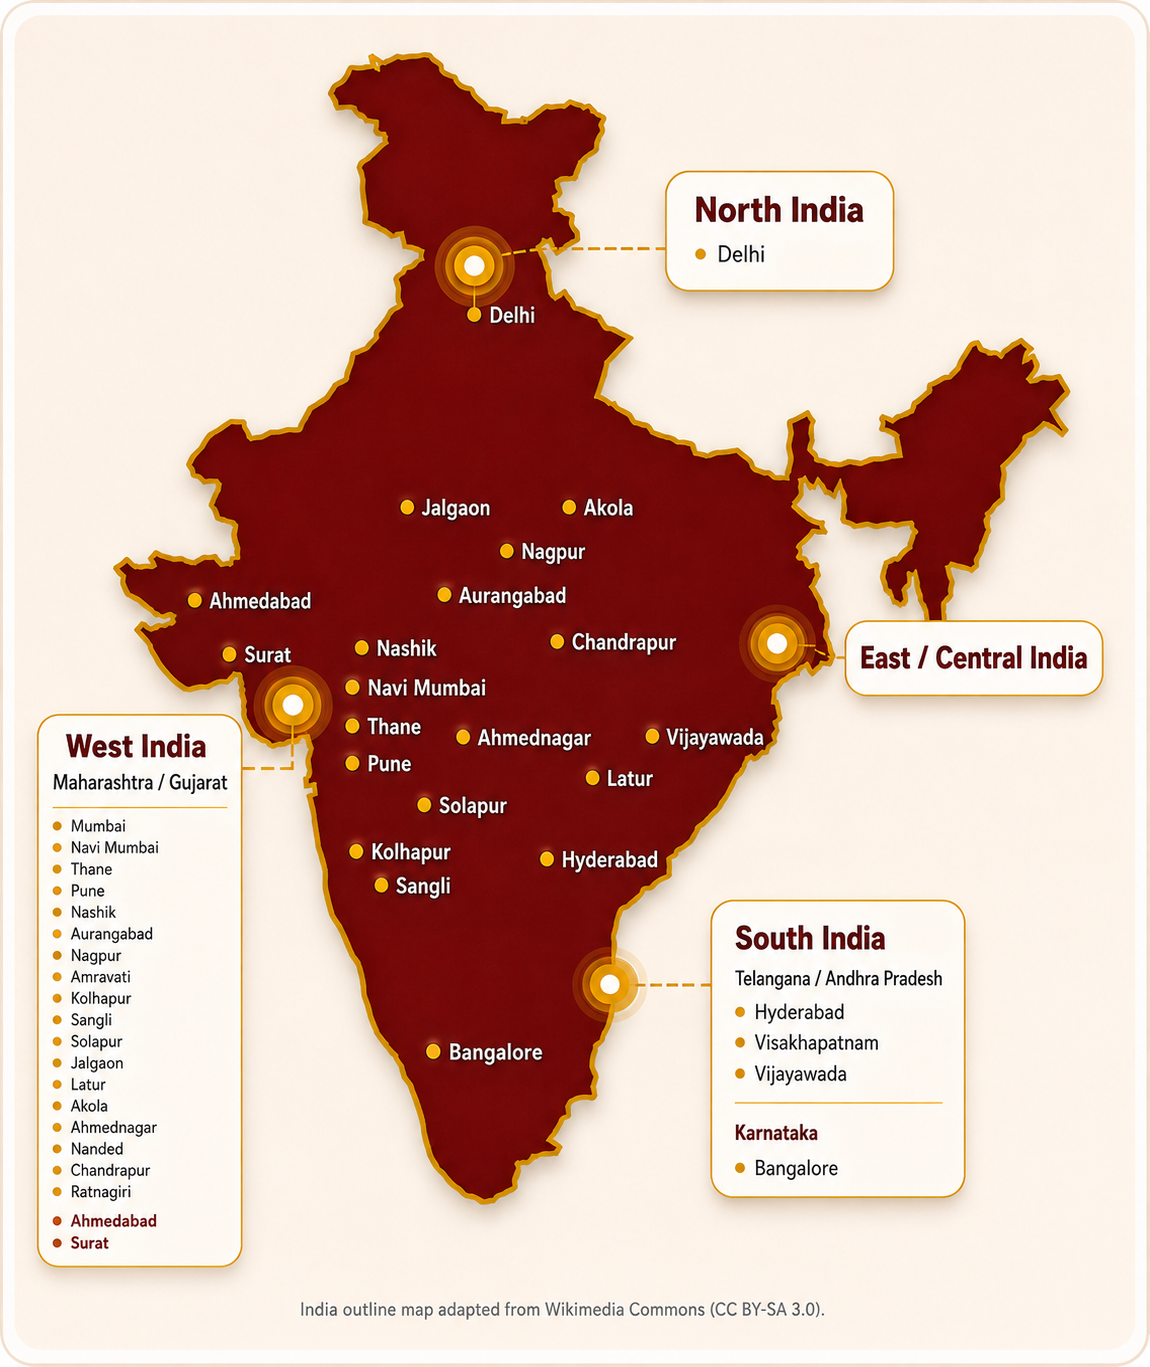
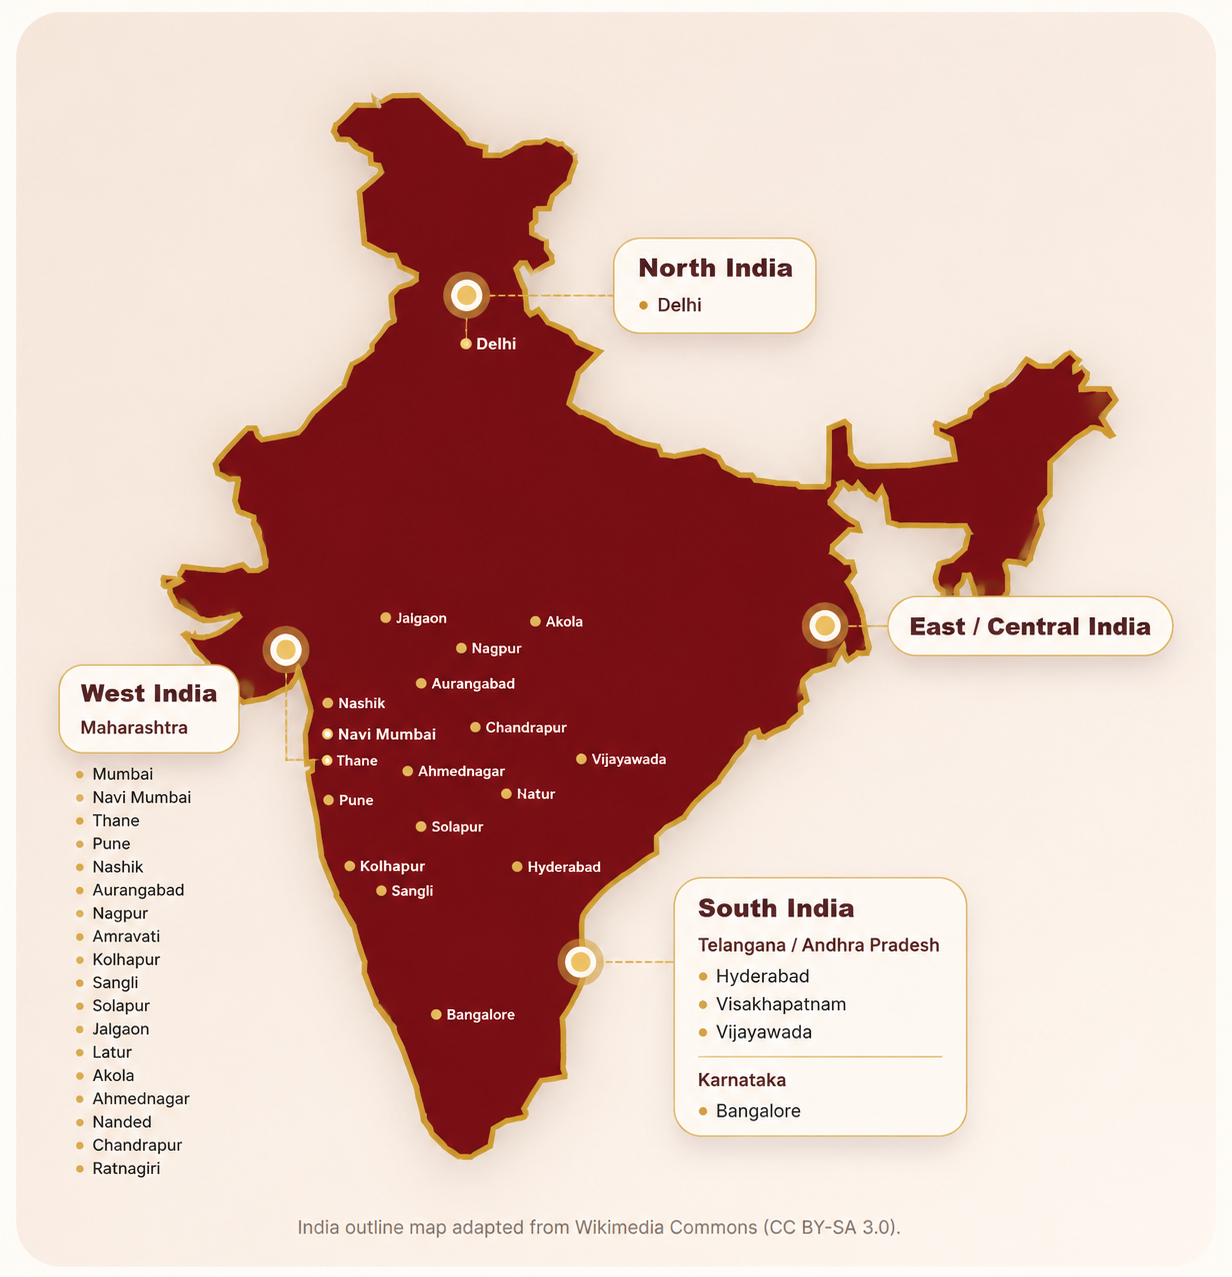
Add files via upload

diff --git a/index.html b/index.html
@@ -10,7 +10,7 @@
 <link href="https://fonts.googleapis.com" rel="preconnect"/>
 <link crossorigin="" href="https://fonts.gstatic.com" rel="preconnect"/>
 <link href="https://fonts.googleapis.com/css2?family=Cormorant+Garamond:wght@600&amp;family=Inter:wght@400;500;600;700&amp;family=Playfair+Display:wght@600;700&amp;display=swap" rel="stylesheet"/>
-<link href="style.css?v=pointer-final-aligned-4" rel="stylesheet"/>
+<link href="style.css?v=gujarat-pointer-aligned-1" rel="stylesheet"/>
 </head>
 <body>
 <header class="site-header" id="top">
@@ -271,7 +271,7 @@
 <h3>PAN-India vision.<br/><em>Phased regional execution.</em></h3>
 <div class="india-map-card real-map-card city-map-card">
 <div class="real-india-map city-india-map">
-<img alt="Brazora PAN-India expansion map showing Maharashtra cities, Delhi, Telangana, Andhra Pradesh and Bangalore" src="assets/india-expansion-cities-latur-pointer-aligned.png"/>
+<img alt="Brazora PAN-India expansion map showing Maharashtra and Gujarat cities including Ahmedabad and Surat, Delhi, Telangana, Andhra Pradesh and Bangalore" src="assets/india-expansion-gujarat-ahmedabad-surat.png?v=2"/>
 <span aria-hidden="true" class="map-pulse map-pulse-north"></span>
 <span aria-hidden="true" class="map-pulse map-pulse-west"></span>
 <span aria-hidden="true" class="map-pulse map-pulse-east"></span>

diff --git a/style.css b/style.css
@@ -2476,3 +2476,32 @@ footer{
   font-size: inherit;
   font-weight: 700;
 }
+
+/* =========================================================
+   FINAL POINTER ALIGNMENT — Gujarat/Ahmedabad/Surat map
+   Exact marker centres measured from the current map asset
+   (1150 x 1367 px).
+   ========================================================= */
+.real-india-map.city-india-map .map-pulse-north{
+  left:41.1652% !important;
+  top:19.4440% !important;
+}
+.real-india-map.city-india-map .map-pulse-west{
+  left:25.5130% !important;
+  top:51.4850% !important;
+}
+.real-india-map.city-india-map .map-pulse-east{
+  left:67.5652% !important;
+  top:47.0080% !important;
+}
+.real-india-map.city-india-map .map-pulse-south{
+  left:52.9565% !important;
+  top:72.0263% !important;
+}
+.real-india-map.city-india-map .map-pulse{
+  transform:translate(-50%,-50%) !important;
+  transform-origin:center center !important;
+}
+.real-india-map.city-india-map .map-pulse::after{
+  transform-origin:center center !important;
+}
